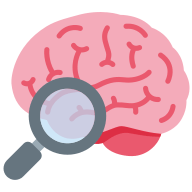
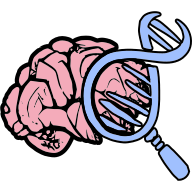
docs(62): fix documentation branding and references
- Update navbar to dark theme matching SysNDD app
- Add correct brain-dna-magnifying-glass logo
- Update styles.css with SysNDD color scheme
- Fix references.qmd to show bibliography entries (nocite: '@*')
- Remove duplicate References heading
- Remove old unused static images
- Update favicon to match app

diff --git a/documentation/styles.css b/documentation/styles.css
@@ -1,15 +1,37 @@
 /* SysNDD Documentation Styles */
 
-/* Match SysNDD primary color scheme */
+/* Match SysNDD color scheme */
 :root {
-  --bs-primary: #0d6efd;
   --sysndd-header-bg: #343a40;
+  --sysndd-header-text: #ffffff;
+  --sysndd-link-color: #17a2b8;
+  --sysndd-footer-bg: #343a40;
+}
+
+/* Dark navbar styling to match SysNDD app */
+.navbar {
+  background-color: var(--sysndd-header-bg) !important;
+}
+
+.navbar-brand, .navbar-nav .nav-link {
+  color: var(--sysndd-header-text) !important;
+}
+
+.navbar-nav .nav-link:hover {
+  color: var(--sysndd-link-color) !important;
 }
 
 /* Logo sizing in navbar */
 .navbar-brand img {
-  height: 40px;
+  height: 36px;
   width: auto;
+  margin-right: 8px;
+}
+
+/* Navbar title styling */
+.navbar-title {
+  font-weight: 600;
+  font-size: 1.1rem;
 }
 
 /* Sidebar styling */
@@ -17,15 +39,23 @@
   border-right: 1px solid #dee2e6;
 }
 
-/* Footer styling */
+.sidebar-title {
+  font-weight: 600;
+}
+
+/* Footer styling to match SysNDD */
 .page-footer {
-  background-color: var(--sysndd-header-bg);
+  background-color: var(--sysndd-footer-bg) !important;
   color: white;
   padding: 1rem;
 }
 
 .page-footer a {
   color: #adb5bd;
+}
+
+.page-footer a:hover {
+  color: var(--sysndd-link-color);
 }
 
 /* Code block styling */
@@ -51,7 +81,7 @@ table th {
   background-color: #f8f9fa;
 }
 
-/* Caption styling (from original style.css) */
+/* Caption styling */
 p.caption {
   color: #777;
   margin-top: 10px;
@@ -65,7 +95,7 @@ pre code {
   white-space: inherit;
 }
 
-/* Highlight mark styling (from original style.css) */
+/* Highlight mark styling */
 mark {
   display: inline-block;
   line-height: 0em;
@@ -78,4 +108,12 @@ mark {
 div[style*="max-width"] img {
   max-width: 100%;
   height: auto;
+}
+
+/* Figure captions */
+figcaption {
+  font-style: italic;
+  color: #666;
+  margin-top: 0.5rem;
+  text-align: center;
 }
